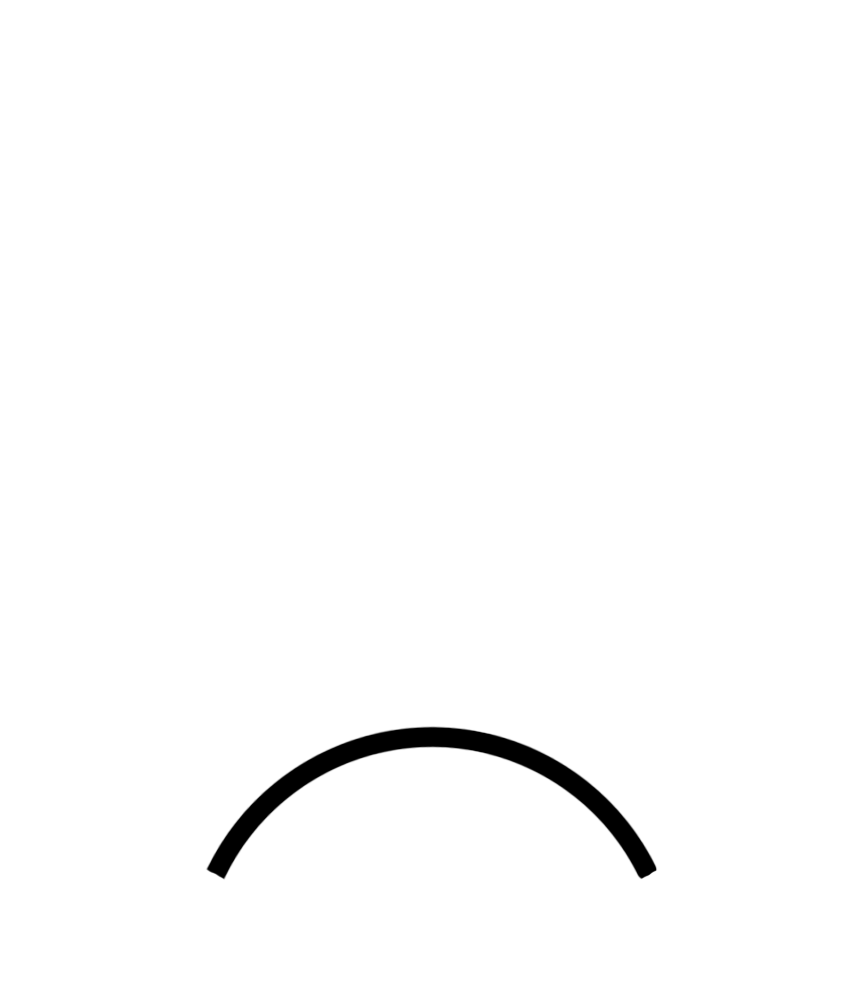
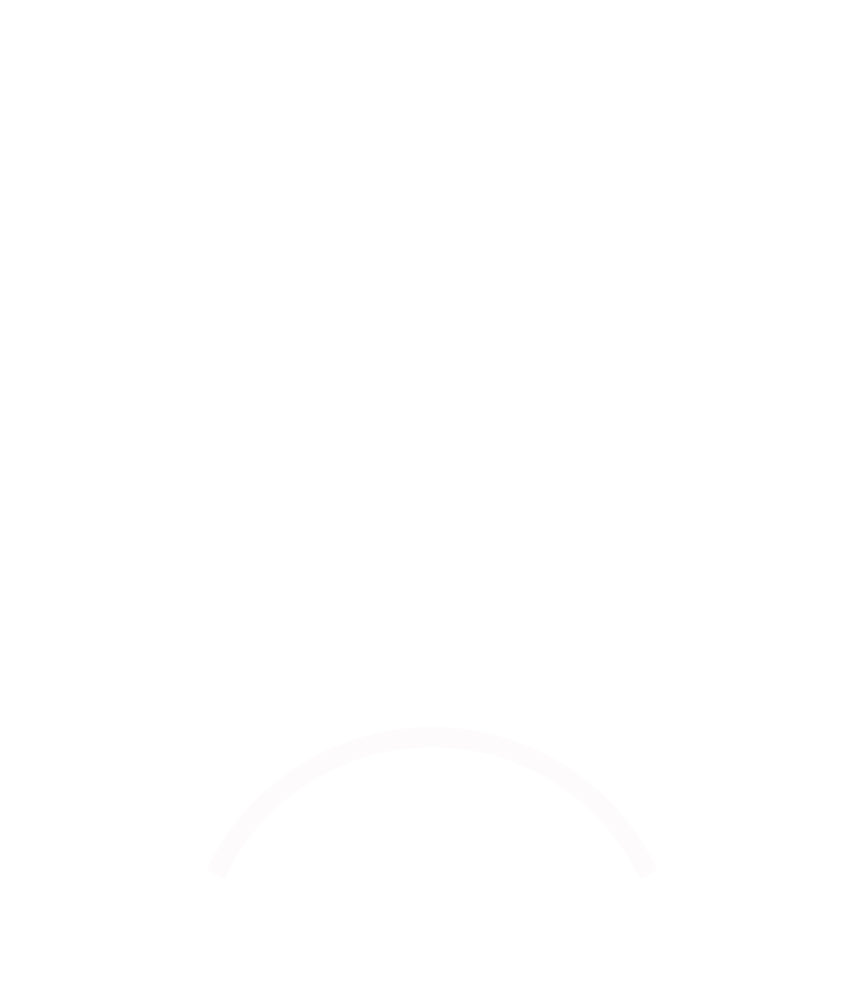
Create tile images from numeric description

Changed region(s): [[0.2494, 0.713, 0.7794, 0.899]]

diff --git a/Code/PuzzleTileHex.cs b/Code/PuzzleTileHex.cs
@@ -1,4 +1,5 @@
-using Godot;
+using System;
+using Godot;
 using Settworks.Hexagons;
 
 public class PuzzleTileHex : Node2D
@@ -15,12 +16,9 @@ public class PuzzleTileHex : Node2D
     {
         base._Ready();
 
-        sprite = new Sprite();
-        sprite.Texture = (Texture)GD.Load("res://Tiles/HexTile.png");
-        var textureHeight = sprite.Texture.GetHeight();
-        float scale = 2f / textureHeight;
-        sprite.Scale = new Vector2(scale, scale);
-        AddChild(sprite);
+        sprite = AddSprite(
+            (Texture)GD.Load("res://Tiles/HexTile.png")
+        );
 
         ZIndex = (int)ZLayers.DroppedTile;
 
@@ -29,20 +27,64 @@ public class PuzzleTileHex : Node2D
         snapTween = new Tween();
         AddChild(snapTween);
 
+        Connections = new[] {
+            //2, 1, 4, 3, 6, 5
+            5, 3, 2, 4, 1, 6
+        };
+
         AddLines();
     }
 
-    void AddLines ()
+    Sprite AddSprite (Texture texture, int zindex = 0)
     {
-        var lines = new Sprite();
-        lines.Texture = (Texture)GD.Load("res://Tiles/largeCurve.png");
-        var textureHeight = lines.Texture.GetHeight();
+        var textureHeight = texture.GetHeight();
         float scale = 2f / textureHeight;
-        lines.Scale = new Vector2(scale, scale);
-        lines.ZAsRelative = true;
-        lines.ZIndex = 1;
-        lines.Modulate = Colors.Aquamarine;
-        AddChild(lines);
+
+        var s = new Sprite
+        {
+            Texture = texture,
+            ZAsRelative = true,
+            ZIndex = zindex,
+            Scale = new Vector2(scale, scale)
+        };
+
+        AddChild(s);
+
+        return s;
+    }
+
+    void AddLines()
+    {
+        for (int i = 0; i < 6; i++)
+        {
+            var delta = ((i + 1) - Connections[i] + 6) % 6;
+            if (delta > 3)
+            {
+                continue;
+            }
+
+            Texture texture;
+            switch (delta)
+            {
+                case 0:
+                    texture = (Texture)GD.Load("res://Tiles/stop.png");
+                    break;
+                case 1:
+                    texture = (Texture)GD.Load("res://Tiles/smallCurve.png");
+                    break;
+                case 2:
+                    texture = (Texture)GD.Load("res://Tiles/largeCurve.png");
+                    break;
+                case 3:
+                    texture = (Texture)GD.Load("res://Tiles/line.png");
+                    break;
+                default:
+                    throw new InvalidOperationException();
+            }
+
+            var s = AddSprite(texture, i);
+            s.Rotation = (i - 1) * Mathf.Pi / 3f;
+        }
     }
 
     public void MakeDraggable()
